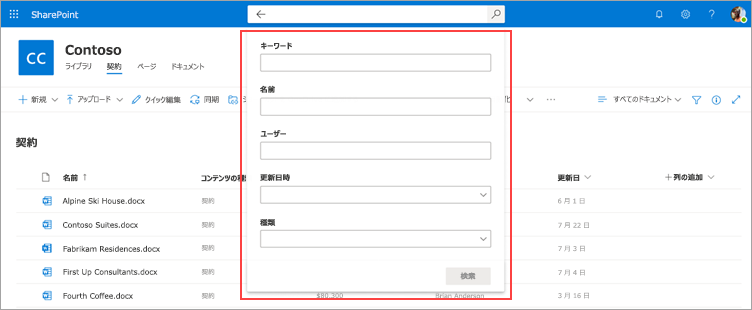
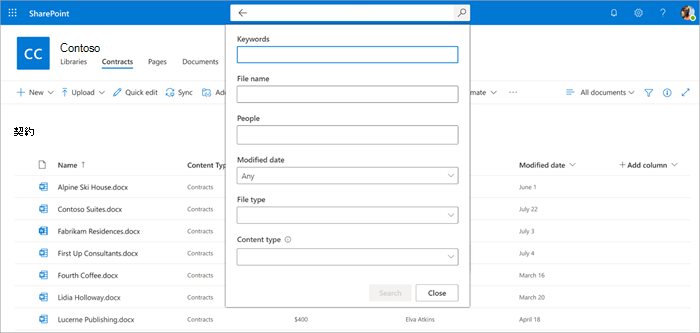
commit translated contents

diff --git a/microsoft-365/contentunderstanding/metadata-search.md b/microsoft-365/contentunderstanding/metadata-search.md
@@ -13,12 +13,12 @@ ms.collection:
 - m365initiative-syntex
 localization_priority: Priority
 description: 高度なメタデータ検索を使用して、SharePoint Syntex で SharePoint ドキュメント ライブラリ内のアイテムを検索する方法について説明します。
-ms.openlocfilehash: 99cf65c5baf57255ff880a859b8fd0b24bab733f
-ms.sourcegitcommit: bf3965b46487f6f8cf900dd9a3af8b213a405989
+ms.openlocfilehash: b5dffe0cd0bf481c1243d87450110d545578a06b
+ms.sourcegitcommit: 355ab75eb7b604c6afbe9a5a1b97ef16a1dec4fc
 ms.translationtype: HT
 ms.contentlocale: ja-JP
-ms.lasthandoff: 11/03/2021
-ms.locfileid: "60717611"
+ms.lasthandoff: 02/14/2022
+ms.locfileid: "62806908"
 ---
 # <a name="search-for-metadata-in-document-libraries-in-microsoft-sharepoint-syntex"></a>Microsoft SharePoint Syntex のドキュメント ライブラリでメタデータを検索する
 
@@ -39,14 +39,15 @@ SharePoint Syntex の高度なメタデータ検索機能を使用すると、Sh
 
     ![メタデータ検索ウィンドウを示すドキュメント ライブラリ ページのスクリーンショット。](../media/content-understanding/metadata-search-pane.png)
 
-   現在、5 つのメタデータ検索フィールドを使用できます。 今後、さらにフィールドが追加される予定です。
+   現在、6 つのメタデータ検索フィールドを使用できます。 今後、さらにフィールドが追加される予定です。
 
    |Field    |このフィールドを使用して  |
    |---------|---------|
    |キーワード |メタデータまたはドキュメントのフルテキストで文字列の一致を検索します。 |
-   |名前     |ライブラリの **名前** 列を検索します。          |
+   |ファイル名     |ライブラリの **名前** 列を検索します。          |
    |ユーザー   |ライブラリ内の任意の列のユーザーとの一致を検索します。   |
-   |Modified |ライブラリの **更新** 列で、選択した日付範囲を検索します。         |
-   |種類     |選択したファイルの種類で検索します。        |
+   |更新日 |ライブラリの **更新** 列で、選択した日付範囲を検索します。         |
+   |ファイルの種類     |選択したファイルの種類 (Word 文書や PDF など) で検索します。        |
+   |コンテンツ タイプ  |選択したコンテンツ タイプで検索します。 このオプションは、ライブラリに既定以外のコンテンツ タイプが適用されている場合にのみ表示されます。 既定のコンテンツ タイプは、 *ドキュメント* と *フォルダー* です。        |
 
 3. **[検索]** を選択します。 メタデータ検索に一致するドキュメントが結果ページに表示されます。 

diff --git a/microsoft-365/security/defender-endpoint/exploit-protection.md b/microsoft-365/security/defender-endpoint/exploit-protection.md
@@ -17,12 +17,12 @@ ms.technology: mde
 ms.topic: article
 ms.collection: m365initiative-m365-defender
 ms.date: 10/19/2021
-ms.openlocfilehash: f90a179f49f55b6b96e2a609c8710b7da2b381b7
-ms.sourcegitcommit: 726a72f135358603c2fde3f4067d834536e6deb2
+ms.openlocfilehash: 7549837db535708e7831ad007984b52933a1e3a8
+ms.sourcegitcommit: 355ab75eb7b604c6afbe9a5a1b97ef16a1dec4fc
 ms.translationtype: HT
 ms.contentlocale: ja-JP
-ms.lasthandoff: 02/03/2022
-ms.locfileid: "62327241"
+ms.lasthandoff: 02/14/2022
+ms.locfileid: "62806638"
 ---
 # <a name="protect-devices-from-exploits"></a>エクスプロイトからデバイスを保護する
 
@@ -34,6 +34,9 @@ Exploit Protection は、オペレーティング システムのプロセスお
 
 > [!TIP]
 > Windows Defender Testground の Web サイト ([demo.wd.microsoft.com](https://demo.wd.microsoft.com?ocid=cx-wddocs-testground)) にアクセスすると、この機能の動作状況および動作のしくみを確認できます。
+
+> [!NOTE]
+> demo.wd.microsoft.com の Defender for Endpoint デモ サイトは推奨されません。今後削除される予定です。
 
 Exploit Protection は、[Defender for Endpoint](microsoft-defender-endpoint.md) と併用した場合に非常に効果的です。Microsoft Defender Advanced Threat Protection では、通常の[アラート調査シナリオ](investigate-alerts.md)の一環として Exploit Protection イベントとブロックに関する詳細なレポートが作成されます。
 

diff --git a/microsoft-365/compliance/dlp-sensitivity-label-as-condition.md b/microsoft-365/compliance/dlp-sensitivity-label-as-condition.md
@@ -20,12 +20,12 @@ search.appverid:
 ms.custom:
 - seo-marvel-apr2020
 description: 秘密度ラベルを DLP ポリシーの条件として使用できるサービスやアイテムの種類について説明します。
-ms.openlocfilehash: b74911765d9249834553c09bbd4efdd02e5f97ce
-ms.sourcegitcommit: d4b867e37bf741528ded7fb289e4f6847228d2c5
+ms.openlocfilehash: 1117471e38b430f1d7289c6aae76994ac5acd494
+ms.sourcegitcommit: 355ab75eb7b604c6afbe9a5a1b97ef16a1dec4fc
 ms.translationtype: HT
 ms.contentlocale: ja-JP
-ms.lasthandoff: 10/06/2021
-ms.locfileid: "60163398"
+ms.lasthandoff: 02/14/2022
+ms.locfileid: "62806890"
 ---
 # <a name="use-sensitivity-labels-as-conditions-in-dlp-policies"></a>DLP ポリシーで秘密度ラベルを条件として使用する
 
@@ -79,7 +79,7 @@ ms.locfileid: "60163398"
 
 - 秘密度ラベルを条件として持つ DLP ポリシーが一致した場合、秘密度ラベルはインシデント レポート メールの一部としても表示されます。
 
-- 秘密度ラベルの詳細情報は、秘密度ラベルを条件として含む DLP ポリシーの一致の DLP ルール一致監査ログにも表示されます。
+- 秘密度ラベルの詳細は、条件として秘密度ラベルを含む DLP ポリシー一致の DLP ルール一致監査ログにも表示されます。
 
 
 ### <a name="support-policy-tips"></a>ポリシー ヒントのサポート

diff --git a/microsoft-365/security/defender-endpoint/next-generation-protection.md b/microsoft-365/security/defender-endpoint/next-generation-protection.md
@@ -15,12 +15,12 @@ manager: dansimp
 ms.custom: nextgen
 ms.technology: mde
 ms.collection: M365-security-compliance
-ms.openlocfilehash: a0f0b7a47a88fe5a94cdc37dc586ee23020723ae
-ms.sourcegitcommit: aac7e002ec6e10a41baa2d0bd38614b0ed471a70
+ms.openlocfilehash: 94f920d298c5b74eff39290ced4ccdc58031ac0f
+ms.sourcegitcommit: 355ab75eb7b604c6afbe9a5a1b97ef16a1dec4fc
 ms.translationtype: HT
 ms.contentlocale: ja-JP
-ms.lasthandoff: 01/27/2022
-ms.locfileid: "62244477"
+ms.lasthandoff: 02/14/2022
+ms.locfileid: "62807406"
 ---
 # <a name="next-generation-protection-overview"></a>次世代保護の概要
 
@@ -44,6 +44,9 @@ Microsoft Defender for Endpoint には、ネットワークのセキュリティ
 - クラウドによる保護
 - 事前ブロック (BAFS) 保護
 - 望ましくない可能性のあるアプリケーション (PUA) 保護
+
+> [!NOTE]
+> demo.wd.microsoft.com の Defender for Endpoint デモ サイトは推奨されません。今後削除される予定です。
 
 ## <a name="configure-next-generation-protection-services"></a>次世代の保護サービスを構成する
 

diff --git a/microsoft-365/solutions/financial-services-secure-collaboration.md b/microsoft-365/solutions/financial-services-secure-collaboration.md
@@ -12,12 +12,12 @@ ms.custom: seo-marvel-jun2020
 ms.localizationpriority: high
 description: 金融サービス機関が、Microsoft 365 と Teams を使用して、財務的なセキュリテとコンプライアンスを維持し、効果的に共同作業を行う方法について説明します。
 f1.keywords: NOCSH
-ms.openlocfilehash: 8f974340423156c46e907d7ed6b8793a255ad189
-ms.sourcegitcommit: 1ef176c79a0e6dbb51834fe30807409d4e94847c
+ms.openlocfilehash: e94ad0e1f7b6f0c8b76f40b6492f69b23655855c
+ms.sourcegitcommit: 355ab75eb7b604c6afbe9a5a1b97ef16a1dec4fc
 ms.translationtype: HT
 ms.contentlocale: ja-JP
-ms.lasthandoff: 11/19/2021
-ms.locfileid: "61111533"
+ms.lasthandoff: 02/14/2022
+ms.locfileid: "62807550"
 ---
 # <a name="key-compliance-and-security-considerations-for-us-banking-and-capital-markets"></a>米国の銀行業および資本市場のための、コンプライアンスとセキュリティの重要な検討事項
 
